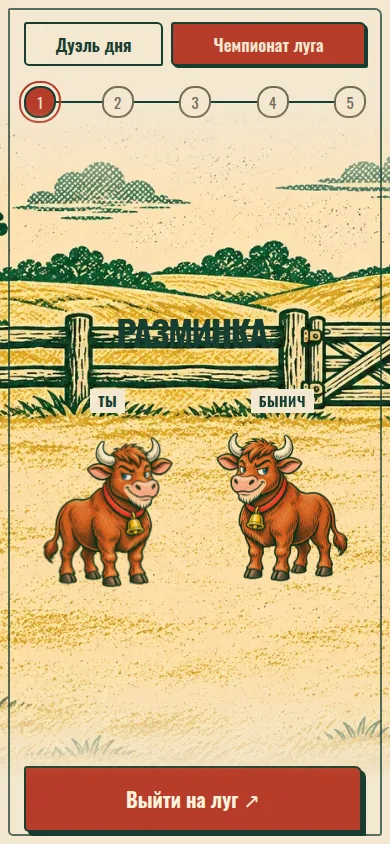
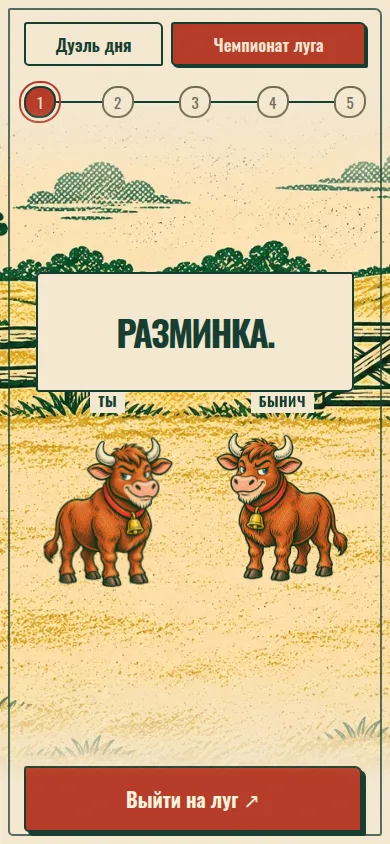
fix(ui): keep duel headings readable over the scenery
Use opaque paper and dark ink for every central heading, retaining phase colors in the frame and the fixed instruction area. Fit the daily two-line introduction inside its existing slot.

Verify every heading state across three scenes, narrow and desktop viewports, and display-font failure. The new guard failed on the original transparent background; transparent-paper, transparent-ink and low-contrast mutations are detected.

Validation: 323 unit tests, the complete Chrome game suite, TypeScript and production build pass. No lint check is configured.

Changed region(s): [[0.0923, 0.3081, 0.9231, 0.4929]]

diff --git a/src/style.css b/src/style.css
@@ -511,13 +511,13 @@ body {
 #player-fill, #bull-fill { display: block; height: 100%; background: currentColor; transform-origin: left; }
 .app[data-bull-cue='warning'] .bull-window, .app[data-bull-cue='voice'] .bull-window { color: var(--lose); }
 .callout { position: absolute; z-index: 1; left: 50%; top: calc(50% + 100px); translate: -50% -50%; display: grid; place-items: center; width: var(--cue-gap); height: 120px; margin: 0; font-size: clamp(22px, 6.8vw, 60px); font-weight: 700; line-height: 1; letter-spacing: -.055em; text-transform: uppercase; text-align: center; }
-.app[data-cue='moo'] .callout::before { position: absolute; z-index: -1; inset: 15px 0; content: ''; background: #dfad4560; clip-path: polygon(0 24%, 23% 25%, 19% 0, 43% 14%, 58% 0, 68% 20%, 94% 9%, 88% 38%, 100% 59%, 78% 68%, 91% 93%, 60% 84%, 43% 100%, 31% 79%, 6% 91%, 13% 63%, 0 51%, 17% 42%); }
-#callout-label { display: grid; place-items: center; width: 100%; height: 100%; }
-.app[data-cue='moo'] .callout { color: var(--win); }
-.app[data-cue='ready'] .callout { color: var(--even); }
+#callout-label { display: grid; place-items: center; width: min(100%, 640px); height: 100%; border-radius: 5px 3px 6px 3px; color: var(--ink); background: var(--paper); box-shadow: inset 0 0 0 2px var(--ink); }
+.app[data-cue='moo'] #callout-label { box-shadow: inset 0 0 0 2px var(--win); }
+.app[data-cue='ready'] #callout-label { box-shadow: inset 0 0 0 2px var(--even); }
 .callout.is-count { font-size: clamp(46px, 9vw, 72px); }
 .app:not([data-phase]) .arena { padding-top: 12px; }
 .app:not([data-phase]) .callout { position: static; grid-column: 1 / -1; grid-row: 1; translate: none; width: 100%; height: 120px; font-size: clamp(36px, 9vw, 60px); }
+.app[data-mode='daily']:not([data-phase]) .callout { font-size: clamp(36px, 9vw, 46px); }
 .app[data-phase='toss'] .callout { top: calc(50% + 90px); width: 90%; font-size: clamp(24px, 4vw, 36px); }
 .app[data-phase='done'] .callout { position: static; grid-column: 1 / -1; grid-row: 1; translate: none; width: 100%; padding: 12px 0; background: none; animation: none; font-size: clamp(28px, 5vw, 48px); }
 @media (min-width: 1000px) {
